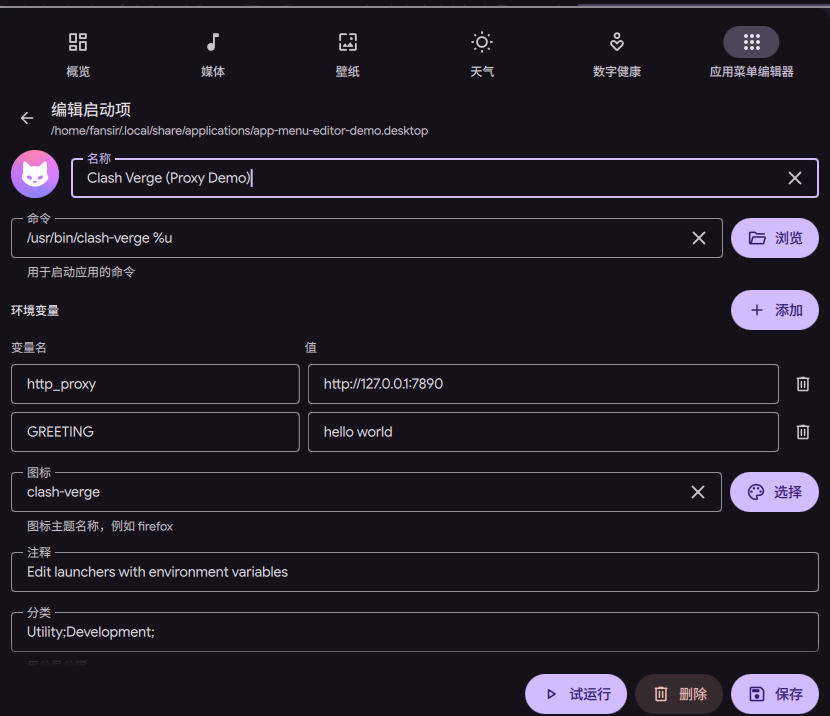
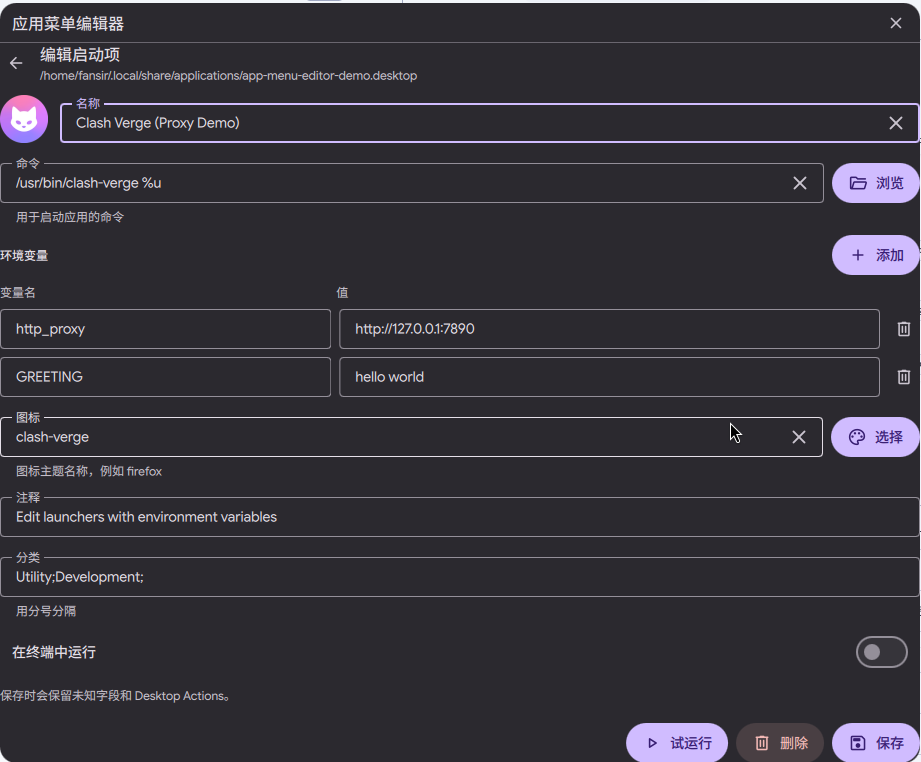
Add draggable layer-shell floating overlay

Changed region(s): [[0.0, 0.0, 1.0, 1.0], [0.7831, 0.5531, 0.8133, 0.5838], [0.0, 0.9832, 0.0301, 1.0]]

diff --git a/AppMenuWindow.qml b/AppMenuWindow.qml
@@ -1,0 +1,221 @@
+pragma ComponentBehavior: Bound
+
+import QtQuick
+import Quickshell
+import Quickshell.Wayland
+import Quickshell.Io
+import qs.Common
+import qs.Services
+import qs.DCommon.Widgets
+
+PanelWindow {
+    id: root
+
+    property string pluginId: "appMenuEditor"
+    property var pluginService: null
+    readonly property string entryId: "plugin_" + pluginId
+
+    property var targetScreen: null
+    property bool positioned: false
+    property bool userMoved: false
+    property string lastScreenName: ""
+
+    readonly property real screenWidth: screen?.width ?? width
+    readonly property real screenHeight: screen?.height ?? height
+    readonly property real cardWidth: Math.max(320, Math.min(920, screenWidth - Theme.spacingXL * 2))
+    readonly property real cardHeight: Math.max(360, Math.min(760, screenHeight - Theme.spacingXL * 2))
+
+    objectName: "appMenuEditorOverlay"
+    screen: targetScreen
+    visible: false
+    color: "transparent"
+
+    anchors {
+        top: true
+        left: true
+        right: true
+        bottom: true
+    }
+
+    WlrLayershell.namespace: "dms:appMenuEditor"
+    WlrLayershell.layer: WlrLayer.Overlay
+    WlrLayershell.exclusiveZone: -1
+    WlrLayershell.keyboardFocus: WlrKeyboardFocus.OnDemand
+
+    mask: Region {
+        item: card
+    }
+
+    onWidthChanged: {
+        if (userMoved)
+            clampCard();
+        else
+            centerCard();
+    }
+    onHeightChanged: {
+        if (userMoved)
+            clampCard();
+        else
+            centerCard();
+    }
+    onScreenChanged: {
+        if (userMoved)
+            clampCard();
+        else
+            centerCard();
+    }
+    onClosed: visible = false
+
+    function centerCard() {
+        if (screenWidth <= 0 || screenHeight <= 0)
+            return;
+        card.x = Math.max(Theme.spacingS, (screenWidth - card.width) / 2);
+        card.y = Math.max(Theme.spacingS, (screenHeight - card.height) / 2);
+        positioned = true;
+    }
+
+    function clampCard() {
+        if (!positioned || screenWidth <= 0 || screenHeight <= 0)
+            return;
+        card.x = Math.max(Theme.spacingS, Math.min(card.x, screenWidth - card.width - Theme.spacingS));
+        card.y = Math.max(Theme.spacingS, Math.min(card.y, screenHeight - card.height - Theme.spacingS));
+    }
+
+    function show() {
+        const focused = CompositorService.getFocusedScreen();
+        const screenName = focused?.name ?? "";
+        if (screenName !== lastScreenName)
+            userMoved = false;
+        targetScreen = focused;
+        visible = true;
+        if (tabLoader.item && tabLoader.item.mode === "list")
+            tabLoader.item.searchText = "";
+        Qt.callLater(() => {
+            if (!positioned || screenName !== lastScreenName) {
+                centerCard();
+                lastScreenName = screenName;
+            } else {
+                clampCard();
+            }
+            tabLoader.item?.focusTarget?.forceActiveFocus(Qt.OtherFocusReason);
+        });
+    }
+
+    function hide() {
+        visible = false;
+    }
+
+    function toggle() {
+        if (visible)
+            hide();
+        else
+            show();
+    }
+
+    Rectangle {
+        id: card
+
+        x: Theme.spacingS
+        y: Theme.spacingS
+        width: root.cardWidth
+        height: root.cardHeight
+        radius: Theme.cornerRadiusL
+        color: Theme.surfaceContainerHigh
+        border.width: Theme.layerOutlineWidth
+        border.color: Theme.outlineMedium
+        clip: true
+
+        Item {
+            id: header
+
+            width: parent.width
+            height: Theme.iconButtonSize
+
+            StyledText {
+                anchors.left: parent.left
+                anchors.right: closeButton.left
+                anchors.verticalCenter: parent.verticalCenter
+                anchors.leftMargin: Theme.spacingM
+                anchors.rightMargin: Theme.spacingS
+                text: I18n.trFor(root.pluginId, "App Menu Editor")
+                font.pixelSize: Theme.fontSizeLarge
+                font.weight: Font.Medium
+                color: Theme.surfaceText
+                elide: Text.ElideRight
+            }
+
+            MouseArea {
+                anchors.fill: parent
+                anchors.rightMargin: closeButton.width + Theme.spacingS
+                drag.target: card
+                drag.axis: Drag.XAndYAxis
+                drag.minimumX: Theme.spacingS
+                drag.maximumX: root.screenWidth - card.width - Theme.spacingS
+                drag.minimumY: Theme.spacingS
+                drag.maximumY: root.screenHeight - card.height - Theme.spacingS
+                cursorShape: pressed ? Qt.ClosedHandCursor : Qt.OpenHandCursor
+                onPressed: root.userMoved = true
+            }
+
+            DActionButton {
+                id: closeButton
+                anchors.right: parent.right
+                anchors.rightMargin: Theme.spacingS
+                anchors.verticalCenter: parent.verticalCenter
+                iconName: "close"
+                tooltipText: I18n.trFor(root.pluginId, "Close")
+                onClicked: root.hide()
+            }
+
+            Rectangle {
+                anchors.left: parent.left
+                anchors.right: parent.right
+                anchors.bottom: parent.bottom
+                height: 1
+                color: Theme.outlineVariant
+            }
+        }
+
+        Loader {
+            id: tabLoader
+
+            anchors.left: parent.left
+            anchors.right: parent.right
+            anchors.top: header.bottom
+            anchors.bottom: parent.bottom
+            source: "AppMenuTab.qml"
+            asynchronous: false
+
+            onLoaded: {
+                item.embedded = true;
+                item.entryId = root.entryId;
+                item.pluginId = root.pluginId;
+                item.pluginService = root.pluginService;
+                Qt.callLater(() => item.focusTarget?.forceActiveFocus(Qt.OtherFocusReason));
+            }
+        }
+    }
+
+    IpcHandler {
+        target: "appMenuEditor"
+
+        function open(): string {
+            root.show();
+            return "OPEN";
+        }
+
+        function close(): string {
+            root.hide();
+            return "CLOSED";
+        }
+
+        function toggle(): string {
+            root.toggle();
+            return root.visible ? "OPEN" : "CLOSED";
+        }
+
+        function status(): string {
+            return root.visible ? "OPEN" : "CLOSED";
+        }
+    }
+}

diff --git a/AppMenuTab.qml b/AppMenuTab.qml
@@ -56,6 +56,7 @@ DashTabComponent {
     // ---------------------------------------------------------------- state
 
     property string mode: "list" // list | edit
+    property bool embedded: false
     property bool editing: false
     property bool editingSystem: false
     property string editPath: ""
@@ -705,6 +706,11 @@ DashTabComponent {
             action: () => root.startCreate()
         },
         {
+            label: t("Open in a floating window"),
+            iconName: "open_in_new",
+            action: () => Quickshell.execDetached(["dms", "ipc", "call", "appMenuEditor", "open"])
+        },
+        {
             label: t("Refresh"),
             iconName: "refresh",
             action: () => root.scanApplications()
@@ -843,7 +849,8 @@ DashTabComponent {
 
             Column {
                 anchors.verticalCenter: parent.verticalCenter
-                width: parent.width - newButton.width - folderButton.width - refreshButton.width - Theme.spacingM * 3
+                visible: !root.embedded
+                width: parent.width - newButton.width - folderButton.width - refreshButton.width - floatButton.width - Theme.spacingM * 4
                 spacing: 2
 
                 StyledText {
@@ -862,6 +869,15 @@ DashTabComponent {
                     elide: Text.ElideRight
                     width: parent.width
                 }
+            }
+
+            DActionButton {
+                id: floatButton
+                anchors.verticalCenter: parent.verticalCenter
+                visible: !root.embedded
+                iconName: "open_in_new"
+                tooltipText: root.t("Open in a floating window")
+                onClicked: Quickshell.execDetached(["dms", "ipc", "call", "appMenuEditor", "open"])
             }
 
             DActionButton {

diff --git a/AppMenuLauncher.qml b/AppMenuLauncher.qml
@@ -16,7 +16,7 @@ QtObject {
         const item = {
             name: I18n.trFor("appMenuEditor", "App Menu Editor"),
             icon: "svg:" + Qt.resolvedUrl("icon.svg"),
-            comment: I18n.trFor("appMenuEditor", "Create or edit application menu entries (desktop files)"),
+            comment: I18n.trFor("appMenuEditor", "Open the floating App Menu Editor"),
             action: "open",
             categories: [I18n.trFor("appMenuEditor", "App Menu Editor")]
         };
@@ -29,6 +29,6 @@ QtObject {
     function executeItem(item) {
         if (!item || item.action !== "open")
             return;
-        Quickshell.execDetached(["dms", "ipc", "call", "dash", "open", "plugin_appMenuEditor"]);
+        Quickshell.execDetached(["dms", "ipc", "call", "appMenuEditor", "open"]);
     }
 }

diff --git a/README.zh.md b/README.zh.md
@@ -2,9 +2,9 @@
 
 [English](README.md) | 中文
 
-| 浏览应用 | 编辑启动项 |
+| 悬浮层：浏览应用 | 悬浮层：编辑启动项 |
 | --- | --- |
-| ![浏览应用](screenshot-list.png) | ![编辑启动项](screenshot-editor.png) |
+| ![悬浮层浏览应用](screenshot-list.png) | ![悬浮层编辑启动项](screenshot-editor.png) |
 
 Dux Shell (DMS 2.0) 插件：在 Dash 里浏览用户和系统应用目录，创建、编辑、删除应用启动项（`.desktop` 文件），适合给没有自带 `.desktop` 文件的应用补一个启动器。
 
@@ -31,14 +31,17 @@ dms ipc call plugins reload appMenuEditor
 
 ## 打开
 
-- Dash 顶部标签：**应用菜单编辑器**
-- 应用启动器（Launcher）搜索：输入 `!app`，选择 **应用菜单编辑器**
-
-命令行直接打开：
+- 应用启动器搜索：输入 `!app`，选择 **应用菜单编辑器**，会打开悬浮层
+- Dash 顶部标签：**应用菜单编辑器**，里面有「在悬浮窗口中打开」按钮
+- 命令行：
 
 ```bash
-dms ipc call dash open plugin_appMenuEditor
+dms ipc call appMenuEditor open
+dms ipc call appMenuEditor toggle
+dms ipc call appMenuEditor close
 ```
+
+悬浮层使用 Wayland layer-shell，始终浮在普通窗口上方，按住顶部标题栏可以拖到屏幕任意位置；点击其他应用或打开文件选择器时不会自动收起。它不是普通平铺窗口。点右上角 **X** 或执行 `close` 关闭。
 
 ## 数据来源
 
@@ -63,6 +66,7 @@ $XDG_DATA_DIRS/*/applications
 ## 功能
 
 - 列出用户目录和系统目录中的 `.desktop` 条目（XDG 应用目录）
+- 悬浮 layer-shell 面板，可拖到屏幕任意位置，切换焦点不会自动收起
 - 默认隐藏 `Hidden=true` / `NoDisplay=true` 条目，可在插件设置中打开显示
 - 用户目录中的同名条目优先于系统条目（符合 XDG 规则）
 - 系统条目显示「系统」标记；编辑保存时会在用户目录创建同名覆盖项

diff --git a/README.md b/README.md
@@ -2,15 +2,16 @@
 
 English | [中文](README.zh.md)
 
-| Browse applications | Edit a launcher |
+| Floating overlay – browse | Floating overlay – edit |
 | --- | --- |
-| ![Browse applications](screenshot-list.png) | ![Edit a launcher](screenshot-editor.png) |
+| ![Floating overlay browse](screenshot-list.png) | ![Floating overlay edit](screenshot-editor.png) |
 
 A Dux Shell (DMS 2.0) plugin for browsing, creating, and editing application launchers (`.desktop` files) directly from the dash. It is useful for apps that ship without a launcher, and for overriding system entries without touching `/usr/share`.
 
 ## Features
 
 - Scans user and system XDG application directories, not just `~/.local/share/applications`
+- Floating layer-shell overlay, draggable anywhere and stays open when focus moves
 - Hides `Hidden=true` and `NoDisplay=true` entries by default, matching the system app menu
 - User entries override system entries with the same file name (XDG precedence)
 - System entries are marked with a **System** badge
@@ -61,13 +62,17 @@ dms ipc call plugins reload appMenuEditor
 
 ## Open
 
-- Dash tab: **App Menu Editor**
-- Launcher: type `!app` and choose **App Menu Editor**
+- Launcher: type `!app` and choose **App Menu Editor** — opens the floating overlay
+- Dash tab: **App Menu Editor** — includes an **Open in a floating window** button
 - CLI:
 
 ```bash
-dms ipc call dash open plugin_appMenuEditor
+dms ipc call appMenuEditor open
+dms ipc call appMenuEditor toggle
+dms ipc call appMenuEditor close
 ```
+
+The overlay uses a Wayland layer-shell surface, so it floats above normal windows, can be dragged anywhere by its header, and stays open when you click another app or open a file picker. It is not a tiled window. Close it with the **X** button or the `close` IPC command.
 
 ## Data sources
 
